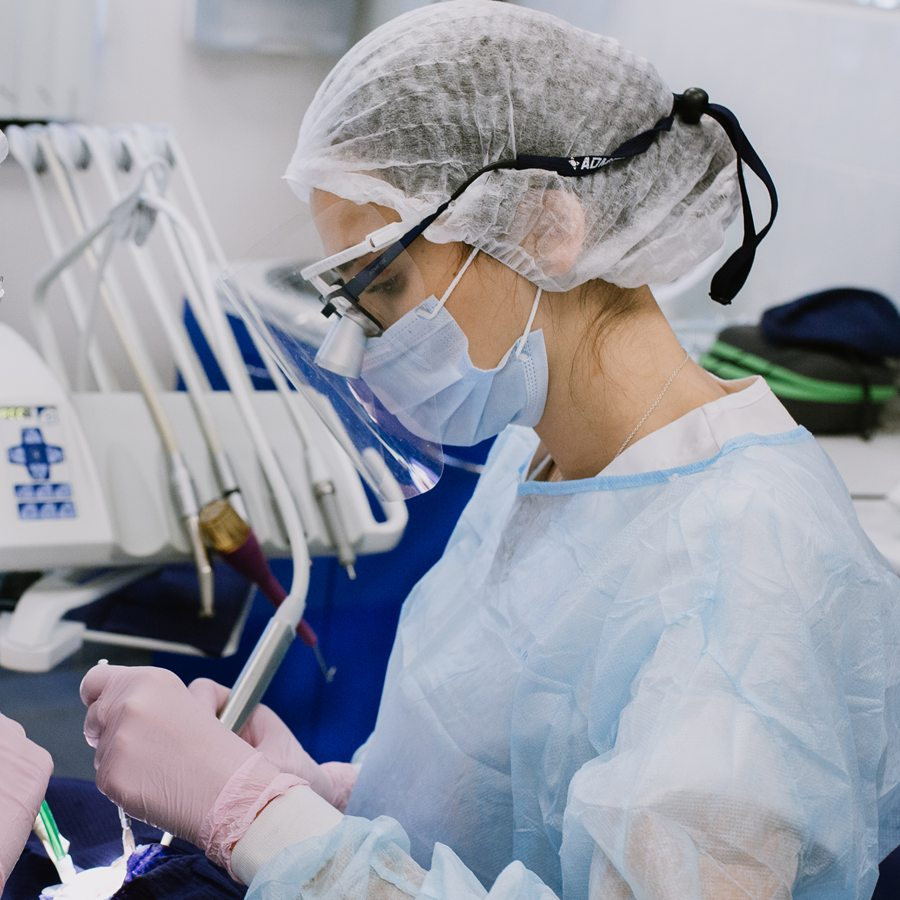
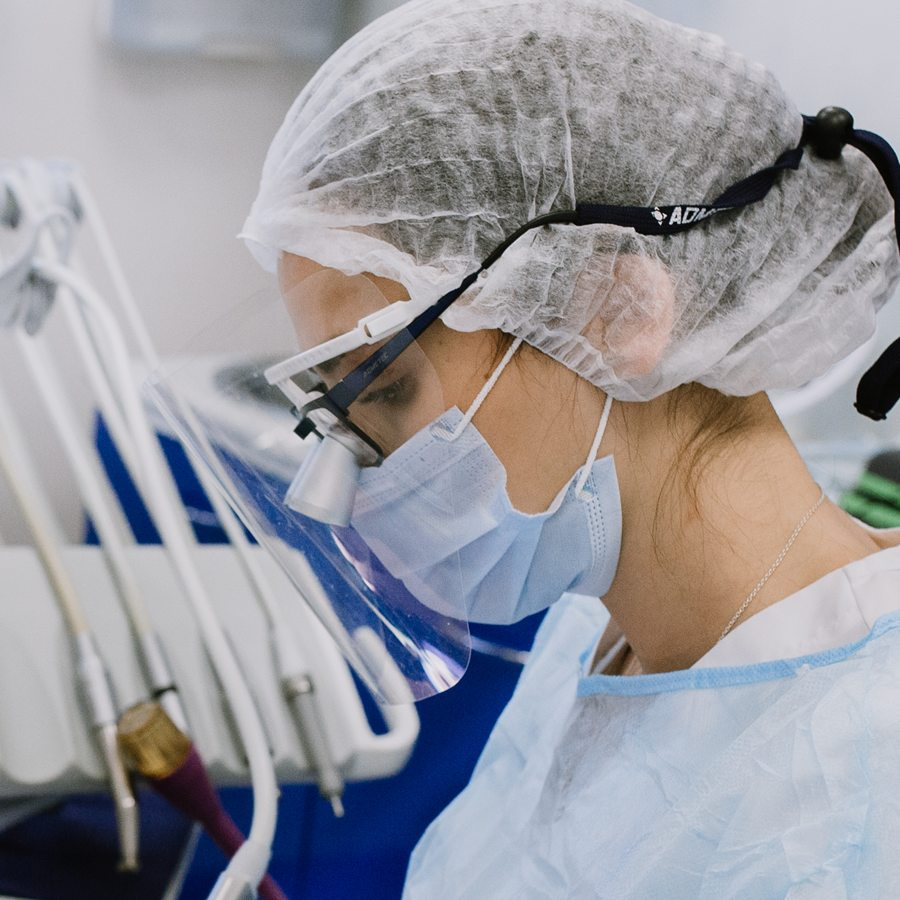
Регулярная гигиена: специалист в бинокулярах крупнее

diff --git a/regulyarnaya-gigiena/index.html b/regulyarnaya-gigiena/index.html
@@ -206,7 +206,7 @@
           </li>          <li class="film__item">
             <div class="film__frame">
               <figure class="film__media">
-                <img class="film__img" src="assets/img/photo-loupes.jpg?v=3" width="900" height="900" alt="специалист в бинокулярах проводит профессиональную гигиену вместе с ассистентом" loading="lazy" decoding="async">
+                <img class="film__img" src="assets/img/photo-loupes.jpg?v=4" width="900" height="900" alt="специалист в бинокулярах проводит профессиональную гигиену вместе с ассистентом" loading="lazy" decoding="async">
               </figure>
             </div>
             <span class="film__num">04</span>
